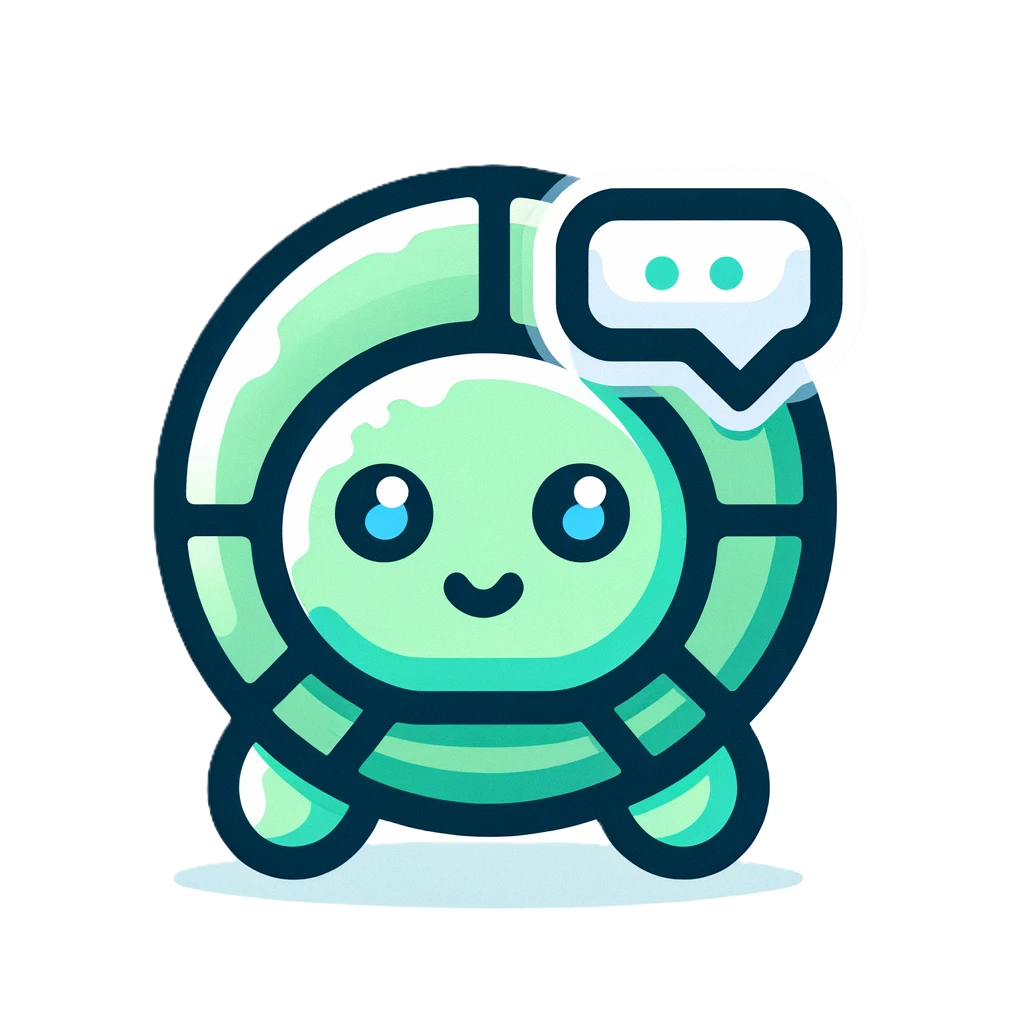
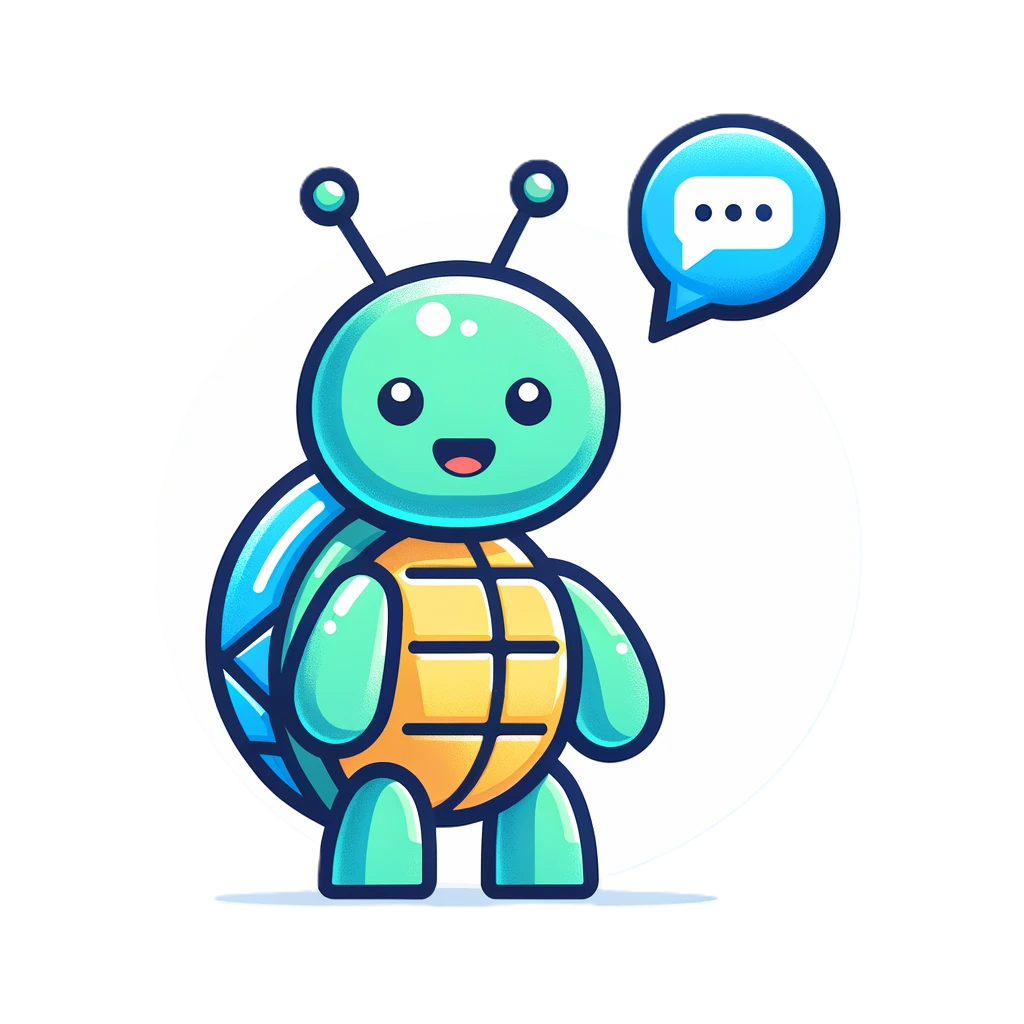
home 수정

diff --git a/team10/home/templates/home/home.html b/team10/home/templates/home/home.html
@@ -212,7 +212,7 @@
 									</div>
 									<div class="meta">
 										<time class="published" id="current-time"></time>
-										<a href="https://data.kma.go.kr/cmmn/main.do" class="author"><span class="name">현재 날씨</span><img src="{%static 'assets/images/avatar.jpg' %}" alt="" /></a>
+									
 									</div>
 									<script>
 										// 현재 날짜와 시간을 가져와서 업데이트하는 함수
@@ -263,26 +263,6 @@
 									<h2><a href="{% url 'service:statistics' %}">통계 페이지로 이동</a></h2>
 									<p>나의 통계를 확인해보세요</p>
 								</div>
-								<div class="meta">
-									<time class="published" id="current-time"></time>
-									<a href="https://data.kma.go.kr/cmmn/main.do" class="author"><span class="name">현재 날씨</span><img src="{%static 'assets/images/avatar.jpg' %}" alt="" /></a>
-								</div>
-								<script>
-									// 현재 날짜와 시간을 가져와서 업데이트하는 함수
-									function updateTime() {
-									  var now = new Date();
-									  var months = ["1월", "2월", "3월", "4월", "5월", "6월", "7월", "8월", "9월", "10월", "11월", "12월"];
-									  var formattedDate = months[now.getMonth()] + " " + now.getDate() + ", " + now.getFullYear();
-									
-									  // HTML의 time 요소를 찾아서 현재 날짜와 시간으로 설정
-									  document.getElementById('current-time').textContent = formattedDate;
-									}
-									
-									// 웹 페이지가 로드될 때 함수를 실행
-									window.onload = function() {
-									  updateTime();
-									};
-								</script>
 							</header>
 							<a href="{% url 'service:statistics' %}" class="image featured"><img src="{%static 'assets/images/statistics.png' %}" alt="" /></a>
 							<p>당신의 일일 자세가 어떤지 시각적으로 확인해보세요.</p>
@@ -299,26 +279,6 @@
 										<h2><a href="{% url 'service:game' %}">스트레칭 페이지로 이동</a></h2>
 										<p>하루동안의 피로를 스트레칭으로 풀어보세요</p>
 									</div>
-									<div class="meta">
-										<time class="published" id="current-time"></time>
-										<a href="https://data.kma.go.kr/cmmn/main.do" class="author"><span class="name">현재 날씨</span><img src="{%static 'assets/images/avatar.jpg' %}" alt="" /></a>
-									</div>
-									<script>
-										// 현재 날짜와 시간을 가져와서 업데이트하는 함수
-										function updateTime() {
-										  var now = new Date();
-										  var months = ["1월", "2월", "3월", "4월", "5월", "6월", "7월", "8월", "9월", "10월", "11월", "12월"];
-										  var formattedDate = months[now.getMonth()] + " " + now.getDate() + ", " + now.getFullYear();
-										
-										  // HTML의 time 요소를 찾아서 현재 날짜와 시간으로 설정
-										  document.getElementById('current-time').textContent = formattedDate;
-										}
-										
-										// 웹 페이지가 로드될 때 함수를 실행
-										window.onload = function() {
-										  updateTime();
-										};
-									</script>
 								</header>
 								<a href="{% url 'service:game' %}" class="image featured"><img src="{%static 'assets/images/game.png' %}" alt="" /></a>
 								<p>다양한 자세로 몸의 피로를 풀고 돌아가세요.</p>
@@ -330,7 +290,7 @@
 							</article>
 							<!-- Chatbot button -->
 								<div id="chat-button">
-									<img src="{% static 'assets/images/chatboticon.png' %}" alt="Chatbot" width="100" height="100" />
+									<img src="{% static 'assets/images/chatbot.png' %}" alt="Chatbot" width="100" height="100" />
 								</div>
 							
 								
@@ -352,41 +312,14 @@
 
 						<!-- Intro -->
 							<section id="intro">
-								<a href="https://pokemonkorea.co.kr/" class="logo"><img src="{%static 'assets/images/main_icon.png' %}" alt="" /></a>
+								<a class="logo"><img src="{%static 'assets/images/main_icon.png' %}" alt="" /></a>
 								<header>
 									<h2>당신의 바른자세 도우미</h2>
 									<p>카메라로 당신의 자세를 분석해보고 저희가 시각화해서 알려드릴게요</p>
 								</header>
 							</section>
 
-						<!-- Mini Posts -->
-							<section>
-								<div class="mini-posts">
-									<!-- Mini Post -->
-										<article class="mini-post">
-											<header>
-												<h3><a href="https://www.amc.seoul.kr/asan/healthinfo/disease/diseaseDetail.do?contentId=31866">거북목이란?</a></h3>
-											</header>
-											<a href="https://www.amc.seoul.kr/asan/healthinfo/disease/diseaseDetail.do?contentId=31866" class="image"><img src="{%static 'assets/images/Turtle neck syndrome.png' %}" alt="" /></a>
-										</article>
-
-									<!-- Mini Post -->
-										<article class="mini-post">
-											<header>
-												<h3><a href="https://www.youtube.com/watch?v=-nOgOs4r6Ys">거북목 관리하는 방법</a></h3>
-											</header>
-											<a href="https://www.youtube.com/watch?v=-nOgOs4r6Ys" class="image"><img src="{%static 'assets/images/turtleneck_care.png' %}" alt="" /></a>
-										</article>
-
-									<!-- Mini Post -->
-										<article class="mini-post">
-											<header>
-												<h3><a href="https://health.kdca.go.kr/healthinfo/biz/health/gnrlzHealthInfo/gnrlzHealthInfo/gnrlzHealthInfoView.do?cntnts_sn=5972">질병관리청 거북목 위험성</a></h3>
-											</header>
-											<a href="https://health.kdca.go.kr/healthinfo/biz/health/gnrlzHealthInfo/gnrlzHealthInfo/gnrlzHealthInfoView.do?cntnts_sn=5972" class="image"><img src="{%static 'assets/images/neck.png' %}" alt="" /></a>
-										</article>
-								</div>
-							</section>
+						
 						<!-- About -->
 							<section class="blurb">
 								<h2>About Us</h2>